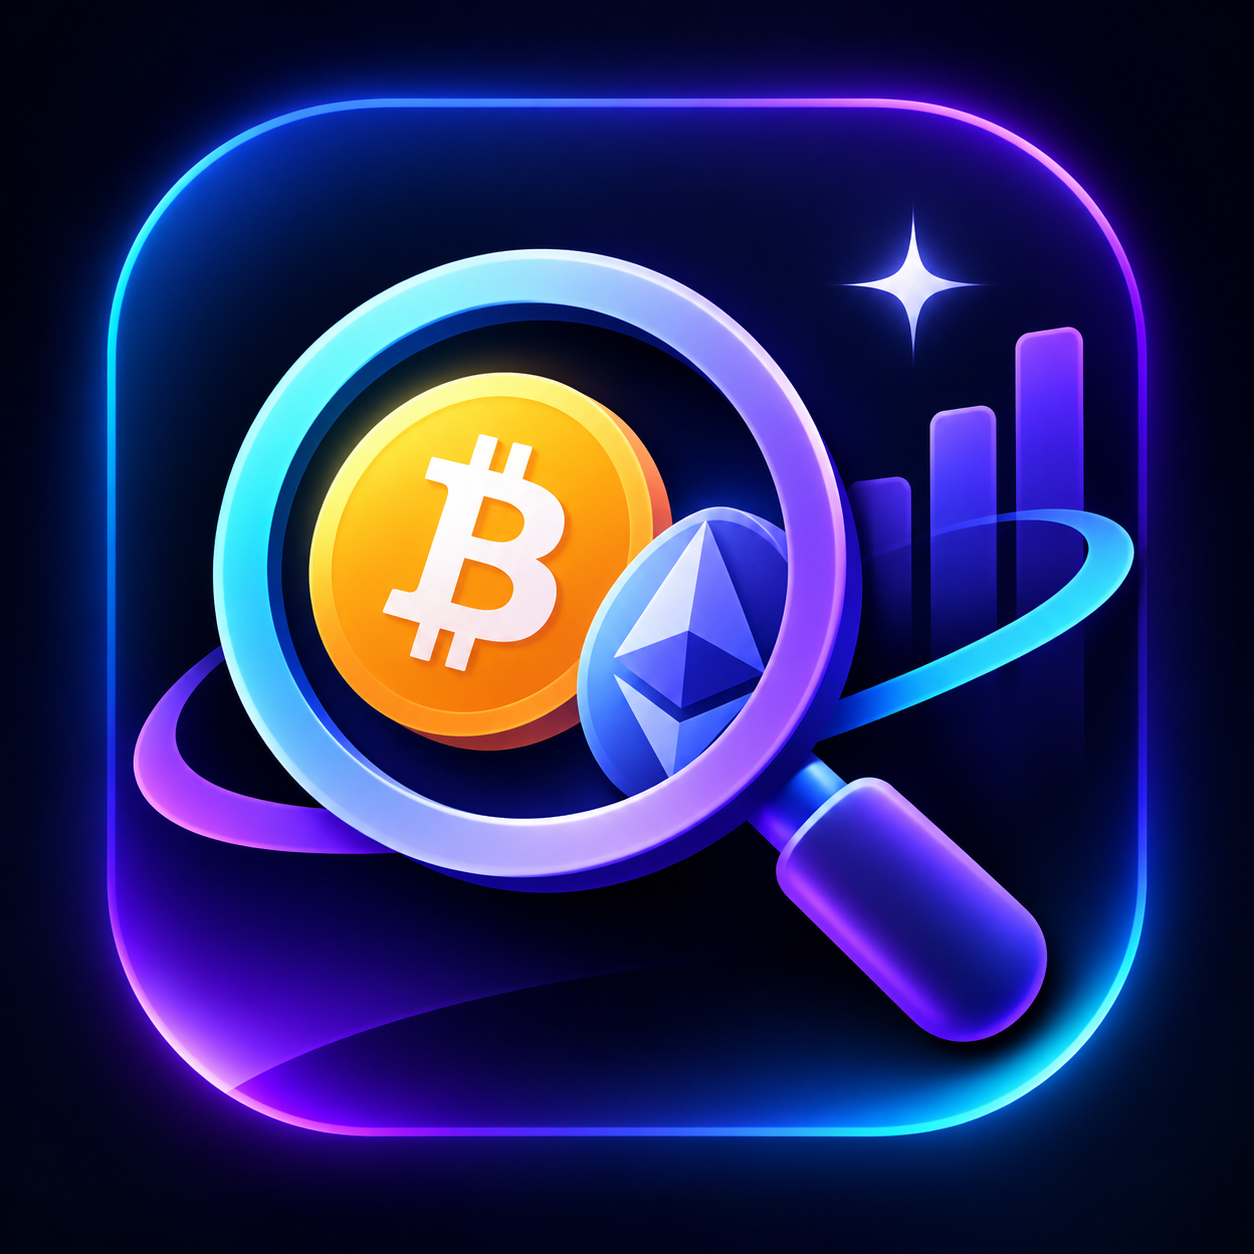
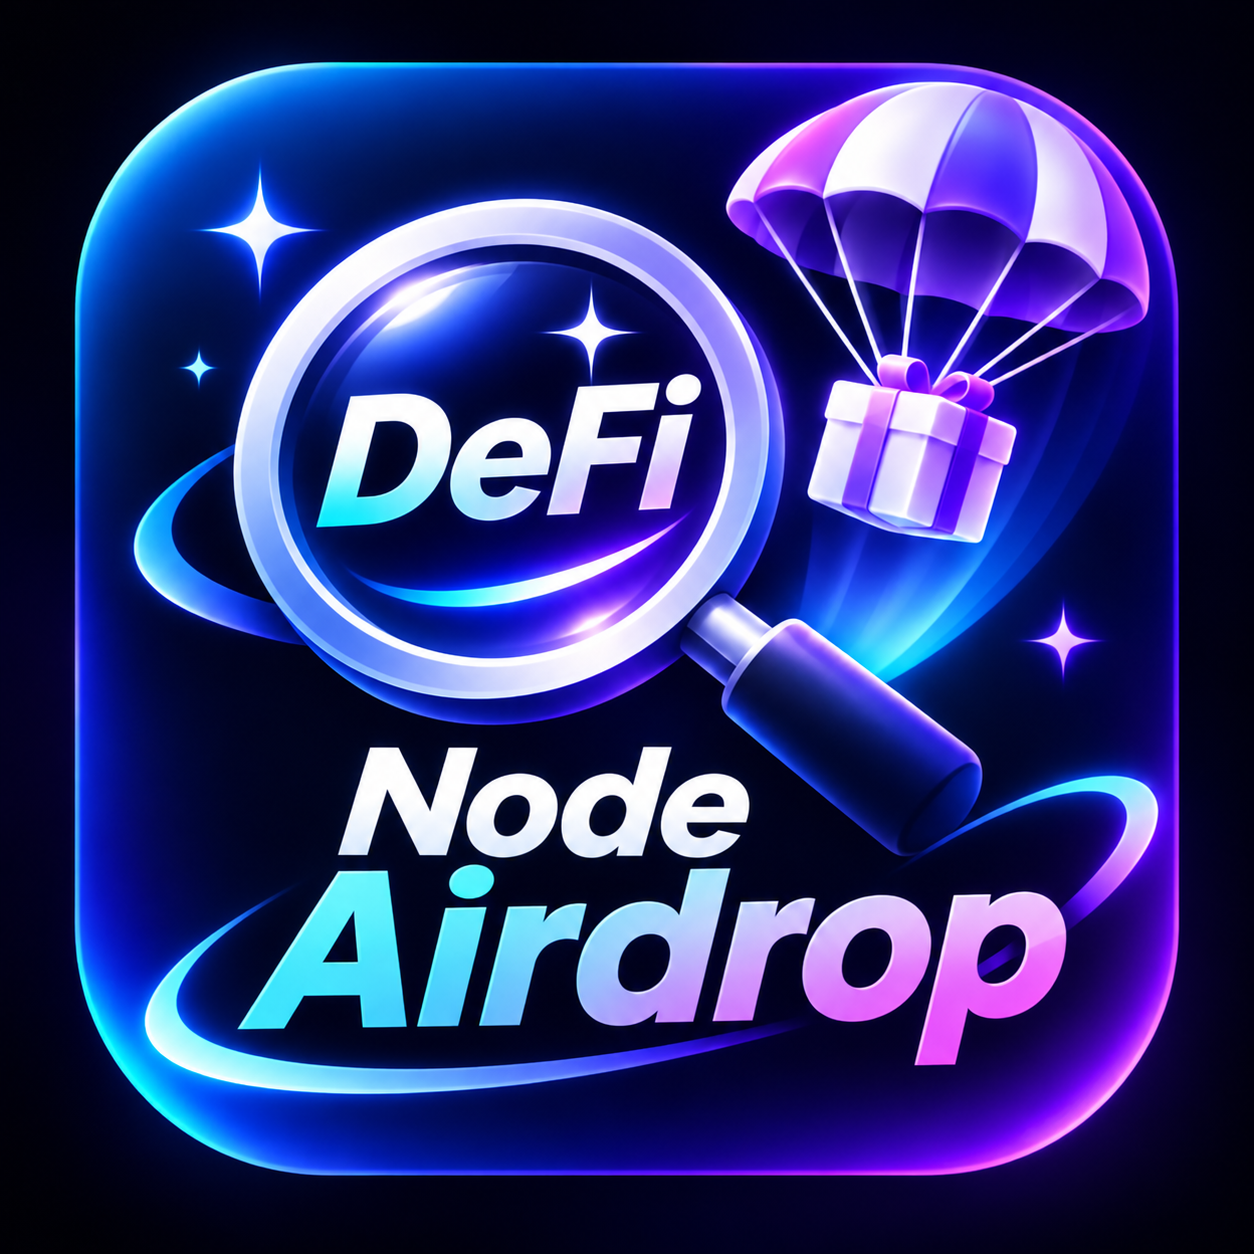
새 앱 아이콘 적용, 한국어 변환 보강
- DeFi·Node·Airdrop 아이콘으로 런처·스플래시·앱 내 로고 교체
- 이전 버전에서 저장된 영어 데이터를 앱 실행/리포트 열람 시 자동 한국어 변환
- 번역 경로 다중화(네이티브·WebView fetch, POST·GET, 보조 번역), 실패 시 원문 유지
- 번역 실패 항목 재시도, [한국어로 번역하기] 버튼, 약어(NFT·AI) 오판 수정
- 버전 1.3

Claude-Session: https://claude.ai/code/session_01Jns4KVtW7snrA8vd76Jb8g

diff --git a/src/main.js b/src/main.js
@@ -1,7 +1,8 @@
 import * as store from './store.js';
 import { searchCoins, cgTrending } from './api/sources.js';
-import { analyzeProject, reapplyAi, localize, STEPS } from './engine/analyze.js';
+import { analyzeProject, reapplyAi, localize, needsLocalize, STEPS } from './engine/analyze.js';
 import { PROJECT_TYPES, EARN_METHODS } from './engine/taxonomy.js';
+import { lastError as trError } from './api/translate.js';
 import { GEMINI_MODELS, parseKeys, testKeys, resetExhausted } from './api/ai.js';
 import { esc, usd, krw, num, pct, cls, ago, sparkline, areaSpark, arc, icon } from './util.js';
 import { typeTag, stageTag, stars, tabEarn, tabInvest, tabOnchain, tabExchange, tabRisk, tabTimeline, tabMemo, viewCompare } from './ui/tabs.js';
@@ -116,6 +117,23 @@ const navbar = (cur) => {
   return `<nav class="navbar">${items.map(([k, l, ic]) => `<button class="${cur === k ? 'on' : ''}" data-act="nav" data-k="${k}">${ic}${l}${k === 'alerts' && n ? '<span class="dot"></span>' : ''}</button>`).join('')}</nav>`;
 };
 
+// ═════════ 한국어 변환 (이전 버전에서 저장된 프로젝트 포함) ═════════
+const trTried = new Set();
+async function ensureKorean(id, { force = false, quiet = true } = {}) {
+  const p = store.getProject(id);
+  if (!p || (!force && (trTried.has(id) || !needsLocalize(p)))) return false;
+  trTried.add(id);
+  await localize(p);
+  store.patchProject(id, { overview: p.overview, team: p.team, investors: p.investors, classification: p.classification, localizedV: p.localizedV, translated: p.translated });
+  if (top().view === 'report' && top().id === id) render();
+  else if (ROOTS.includes(top().view) && !state.select && !state.edit) render();
+  if (!quiet) toast(needsLocalize(store.getProject(id)) ? `일부 번역 실패 — ${trError || '네트워크를 확인하세요'}` : '한국어로 번역했습니다');
+  return true;
+}
+async function migrateAll() {
+  for (const p of store.listProjects()) if (needsLocalize(p)) await ensureKorean(p.id);
+}
+
 // ═════════ 렌더 ═════════
 function render() {
   const t = top();
@@ -124,6 +142,7 @@ function render() {
   if (ROOTS.includes(t.view) && !state.select && !state.edit) html += navbar(t.view);
   $app.innerHTML = html;
   if (t.view === 'home') bindDrag();
+  if (t.view === 'report') ensureKorean(t.id);
   renderOverlay();
 }
 
@@ -312,7 +331,7 @@ function viewAlerts() {
 function viewMore() {
   const item = (act, ic, t, s) => `<div class="row" data-act="${act}"><div class="mi">${ic}</div><div class="grow"><div class="t">${t}</div><div class="s">${s}</div></div><span class="chev">${icon.chev}</span></div>`;
   return `<div class="screen with-nav">
-  <div class="topbar"><img class="app-logo" src="img/logo.png" alt=""><h1>더보기<small>코인 검증기 v1.2.0</small></h1></div>
+  <div class="topbar"><img class="app-logo" src="img/logo.png" alt=""><h1>더보기<small>코인 검증기 v1.3.0</small></h1></div>
   <div class="sec menu"><h3>도구</h3>
     ${item('select', '⚖', '프로젝트 비교', '2~3개를 골라 점수·투자·상장 나란히 비교')}
     ${item('calcPage', '🧮', '수익 계산기', '토큰 수익률 · 노드 회수기간 · 에어드랍 기대값')}
@@ -472,6 +491,7 @@ function tabSummary(p) {
   <div class="sec"><h3>${icon.doc} 프로젝트 개요 ${p.ai ? '<span class="pill-ai">AI</span>' : ''}</h3>
     ${p.ai?.summary ? `<p><b>${esc(p.ai.summary)}</b></p>` : ''}
     ${desc ? `<p style="white-space:pre-line">${esc(desc.slice(0, 1200))}${desc.length > 1200 ? '…' : ''}</p>` : '<p class="muted">설명 정보가 없습니다.</p>'}
+    ${needsLocalize(p) ? `<button class="btn sm ghost block" style="margin:4px 0 10px" data-act="translateNow">🇰🇷 한국어로 번역하기</button>` : ''}
     ${(o.categories || []).length ? `<div class="pmeta" style="margin:6px 0 10px">${[...new Set(o.categories)].slice(0, 8).map((c) => `<span class="tag">${esc(c)}</span>`).join('')}</div>` : ''}
     ${links.length ? `<div class="links">${links.map(([k, l]) => `<a href="${esc(o[k])}" target="_blank" rel="noopener">${l}</a>`).join('')}</div>` : ''}
   </div>
@@ -717,6 +737,7 @@ const actions = {
     if (state.overlay?.type === 'trending') { state.overlay = { type: 'trending', results }; renderOverlay(); }
   },
   toggleAi: (el) => el.classList.toggle('on'),
+  translateNow: () => ensureKorean(top().id, { force: true, quiet: false }),
   resetQuota: () => { resetExhausted(); toast('한도 소진 기록을 지웠습니다. 다음 분석에서 모든 키·모델을 다시 시도합니다'); },
   keyGuide: () => { const d = document.getElementById('keyGuide'); if (d) { d.open = true; d.scrollIntoView({ behavior: 'smooth', block: 'start' }); } },
   keyTest: async (el) => {
@@ -847,6 +868,7 @@ document.addEventListener('change', async (e) => {
 });
 
 render();
+setTimeout(migrateAll, 1500); // 예전에 저장된 영어 데이터를 한국어로 자동 변환
 
 // 미리보기/디버그용 훅 (#debug 일 때만)
 if (location.hash.includes('debug')) window.__app = { state, push, render, openOverlay, store, goRoot };

diff --git a/src/api/translate.js b/src/api/translate.js
@@ -23,39 +23,75 @@ function persist() {
 
 /** 한글이 이미 충분하면 번역 불필요 */
 export const isKorean = (s = '') => {
-  const letters = s.replace(/[^A-Za-z가-힣]/g, '');
-  if (!letters) return true;
-  return (s.match(/[가-힣]/g) || []).length / letters.length > 0.3;
+  // 대문자 약어(NFT, AI, BNB)·숫자·기호는 번역 대상이 아님
+  const rest = String(s).replace(/\b[A-Z0-9][A-Z0-9.+\-]*\b/g, '').replace(/https?:\S+/g, '');
+  const latin = (rest.match(/[A-Za-z]/g) || []).length;
+  if (latin < 3) return true;
+  const hangul = (rest.match(/[가-힣]/g) || []).length;
+  return hangul / (hangul + latin) > 0.3;
 };
 
-async function viaGoogle(texts) {
-  const body = new URLSearchParams();
-  texts.forEach((t) => body.append('q', t));
+const GT = 'https://translate.googleapis.com/translate_a/t?client=gtx&sl=auto&tl=ko&format=text';
+// 앱(Capacitor)은 fetch를 네이티브 HTTP로 바꿔치기하므로, 원래 WebView fetch도 함께 시도
+const fetchers = () => [globalThis.fetch, globalThis.CapacitorWebFetch].filter((f, i, a) => typeof f === 'function' && a.indexOf(f) === i);
+
+async function timed(fn, ms = 15000) {
   const ctrl = new AbortController();
-  const timer = setTimeout(() => ctrl.abort(), 15000);
+  const timer = setTimeout(() => ctrl.abort(), ms);
   try {
-    const res = await fetch('https://translate.googleapis.com/translate_a/t?client=gtx&sl=auto&tl=ko&format=text', {
-      method: 'POST',
-      headers: { 'content-type': 'application/x-www-form-urlencoded;charset=UTF-8' },
-      body: body.toString(),
-      signal: ctrl.signal,
-    });
-    if (!res.ok) throw new Error(`HTTP ${res.status}`);
-    const data = await res.json();
-    // 응답 형태: 한 개면 [["번역","en"]] 또는 ["번역","en"], 여러 개면 [["번역","en"], ...]
-    const arr = texts.length === 1 && typeof data[0] === 'string' ? [data] : data;
-    return arr.map((x) => (Array.isArray(x) ? x[0] : x));
+    return await fn(ctrl.signal);
   } finally {
     clearTimeout(timer);
   }
+}
+function parseGt(data, n) {
+  if (!Array.isArray(data)) throw new Error('형식 오류');
+  const arr = n === 1 && typeof data[0] === 'string' ? [data] : data;
+  const out = arr.map((x) => (Array.isArray(x) ? x[0] : x));
+  if (out.length !== n || out.some((x) => typeof x !== 'string')) throw new Error('형식 오류');
+  return out;
+}
+
+export let lastError = '';
+
+async function viaGoogle(texts) {
+  const errs = [];
+  for (const f of fetchers()) {
+    // 1) POST 묶음 전송
+    try {
+      const body = texts.map((t) => `q=${encodeURIComponent(t)}`).join('&');
+      return await timed(async (signal) => {
+        const res = await f.call(globalThis, GT, { method: 'POST', headers: { 'Content-Type': 'application/x-www-form-urlencoded;charset=UTF-8' }, body, signal });
+        if (!res.ok) throw new Error(`HTTP ${res.status}`);
+        return parseGt(await res.json(), texts.length);
+      });
+    } catch (e) {
+      errs.push(`POST ${e.message}`);
+    }
+    // 2) GET (주소 길이 제한 때문에 한 건씩)
+    try {
+      const out = [];
+      for (const t of texts) {
+        const r = await timed(async (signal) => {
+          const res = await f.call(globalThis, `${GT}&q=${encodeURIComponent(t.slice(0, 1800))}`, { signal });
+          if (!res.ok) throw new Error(`HTTP ${res.status}`);
+          return parseGt(await res.json(), 1)[0];
+        });
+        out.push(r);
+      }
+      return out;
+    } catch (e) {
+      errs.push(`GET ${e.message}`);
+    }
+  }
+  throw new Error(errs.join(' / '));
 }
 
 async function viaMyMemory(text) {
   const parts = text.match(/[^.!?\n]{1,450}[.!?\n]?/g) || [text];
   const out = [];
   for (const p of parts) {
-    const res = await fetch(`https://api.mymemory.translated.net/get?q=${encodeURIComponent(p)}&langpair=en|ko`);
-    const d = await res.json();
+    const d = await timed(async (signal) => (await fetch(`https://api.mymemory.translated.net/get?q=${encodeURIComponent(p)}&langpair=en|ko`, { signal })).json());
     out.push(d?.responseData?.translatedText || p);
   }
   return out.join(' ');
@@ -87,15 +123,18 @@ export async function translateKo(texts) {
       let tr = null;
       try {
         tr = await viaGoogle(b);
-      } catch {
+        lastError = '';
+      } catch (e) {
+        lastError = `구글 번역 실패: ${e.message}`;
         tr = null;
       }
       if (!tr || tr.length !== b.length) {
         tr = [];
         for (const t of b) {
           try {
-            tr.push(t.length < 1500 ? await viaMyMemory(t) : t);
-          } catch {
+            tr.push(await viaMyMemory(t.slice(0, 2500)));
+          } catch (e) {
+            lastError += ` / 보조 번역 실패: ${e.message}`;
             tr.push(t);
           }
         }

diff --git a/src/engine/analyze.js b/src/engine/analyze.js
@@ -224,6 +224,12 @@ export async function analyzeProject(input, onStep = () => {}) {
   return r;
 }
 
+/** 아직 영어가 남아 있는지 (이전 버전에서 저장된 프로젝트 포함) */
+export function needsLocalize(r) {
+  const o = r.overview || {};
+  return r.localizedV !== 2 || (o.description && !isKorean(o.description)) || (o.categories || []).some((c) => !isKorean(c)) || (r.team || []).some((m) => m.role && !isKorean(m.role));
+}
+
 /** 영어로 수집된 설명·카테고리·팀 역할 등을 한국어로 변환 (AI 없이 무료 번역) */
 export async function localize(r) {
   const o = r.overview;
@@ -236,17 +242,24 @@ export async function localize(r) {
     o.descriptionEn = o.description;
     add(() => protectTerms(o.description.slice(0, 3000)), (t) => (o.description = t));
   }
-  // 카테고리·태그: 코인 용어 사전 우선, 없으면 기계번역
-  const listKo = (arr, setEn) => {
-    setEn([...arr]);
+  // 카테고리·태그: 코인 용어 사전 우선, 없으면 기계번역 (실패했던 항목은 다음에 다시 시도)
+  const listKo = (arr, en) => {
     arr.forEach((c, i) => {
-      const d = koCategory(c);
+      if (isKorean(c)) return;
+      const src = en[i] || c;
+      const d = koCategory(src);
       if (d) arr[i] = d;
-      else add(() => c, (t) => (arr[i] = t));
+      else add(() => src, (t) => (arr[i] = t));
     });
   };
-  if (o.categories?.length && !o.categoriesEn) listKo(o.categories, (v) => (o.categoriesEn = v));
-  if (o.tags?.length && !o.tagsEn) listKo(o.tags, (v) => (o.tagsEn = v));
+  if (o.categories?.length) {
+    o.categoriesEn ||= [...o.categories];
+    listKo(o.categories, o.categoriesEn);
+  }
+  if (o.tags?.length) {
+    o.tagsEn ||= [...o.tags];
+    listKo(o.tags, o.tagsEn);
+  }
   (r.team || []).forEach((m) => add(() => m.role, (t) => (m.role = t)));
   (r.investors?.raises || []).forEach((x) => {
     const d = koRound(x.round);
@@ -263,11 +276,12 @@ export async function localize(r) {
     const k = why.match(/^설명 키워드: "(.+)"$/);
     if (k && !isKorean(k[1])) t.reasons[i] = `설명에 '${koKeyword(k[1]) || k[1]}' 관련 내용`;
   }));
+  r.localizedV = 2;
   if (!jobs.length) return r;
   try {
     const out = await translateKo(jobs.map((j) => j.v));
-    jobs.forEach((j, i) => out[i] && j.set(out[i]));
-    r.translated = true;
+    jobs.forEach((j, i) => out[i] && out[i] !== j.v && isKorean(out[i]) && j.set(out[i])); // 실제로 번역된 것만 반영
+    r.translated = !needsLocalize(r);
   } catch (e) {
     r.errors?.push(`번역: ${e.message}`);
   }
